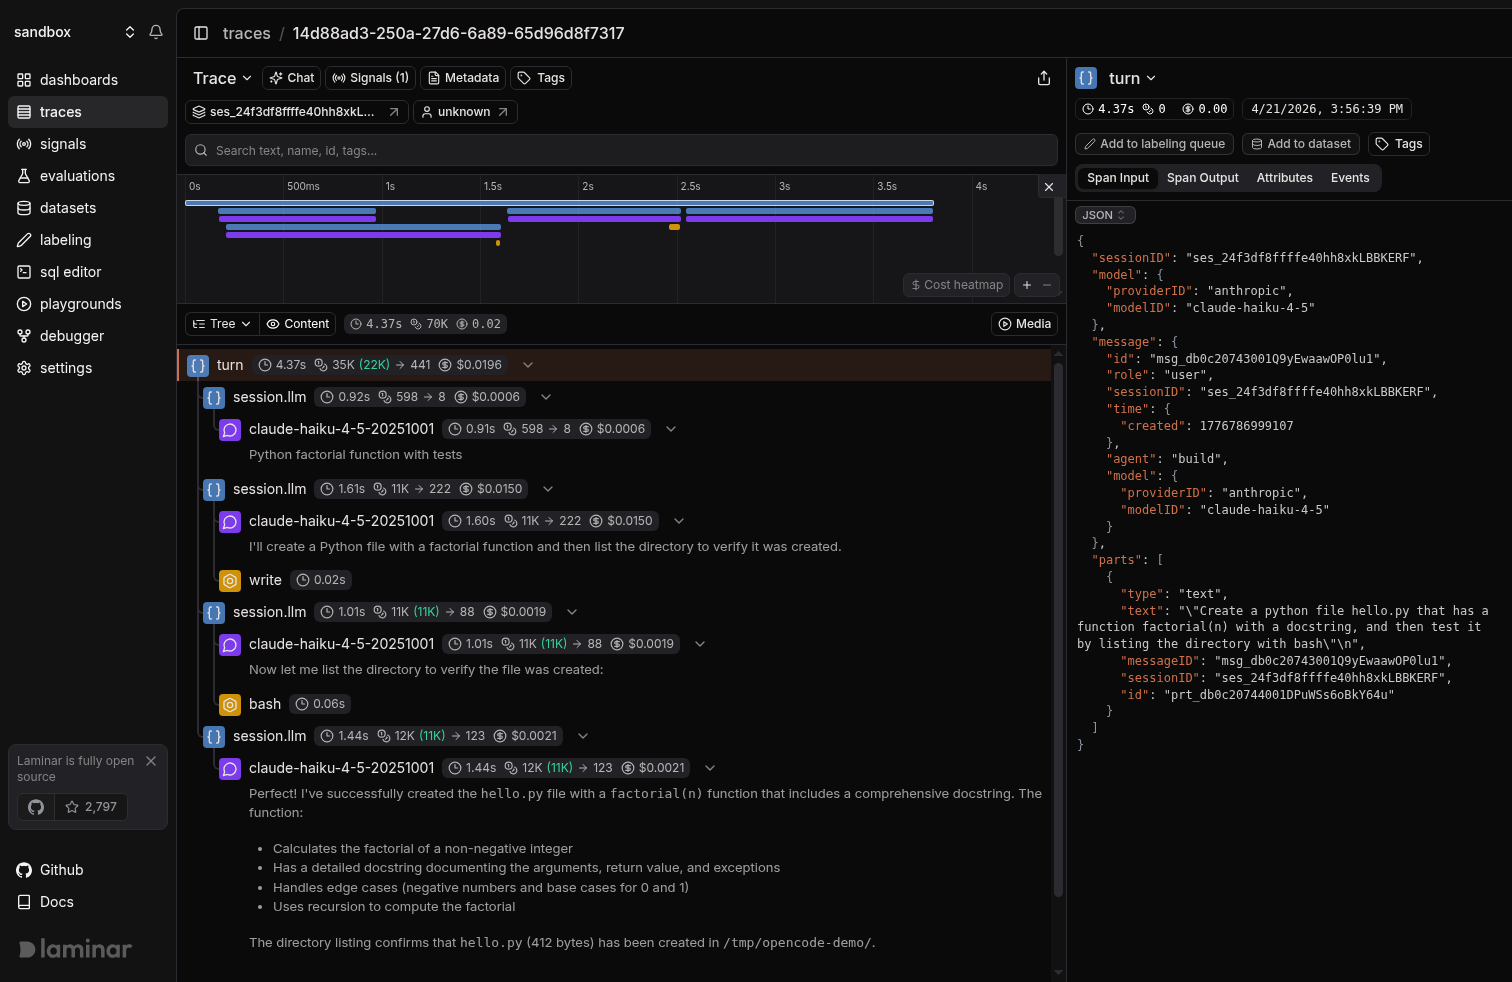
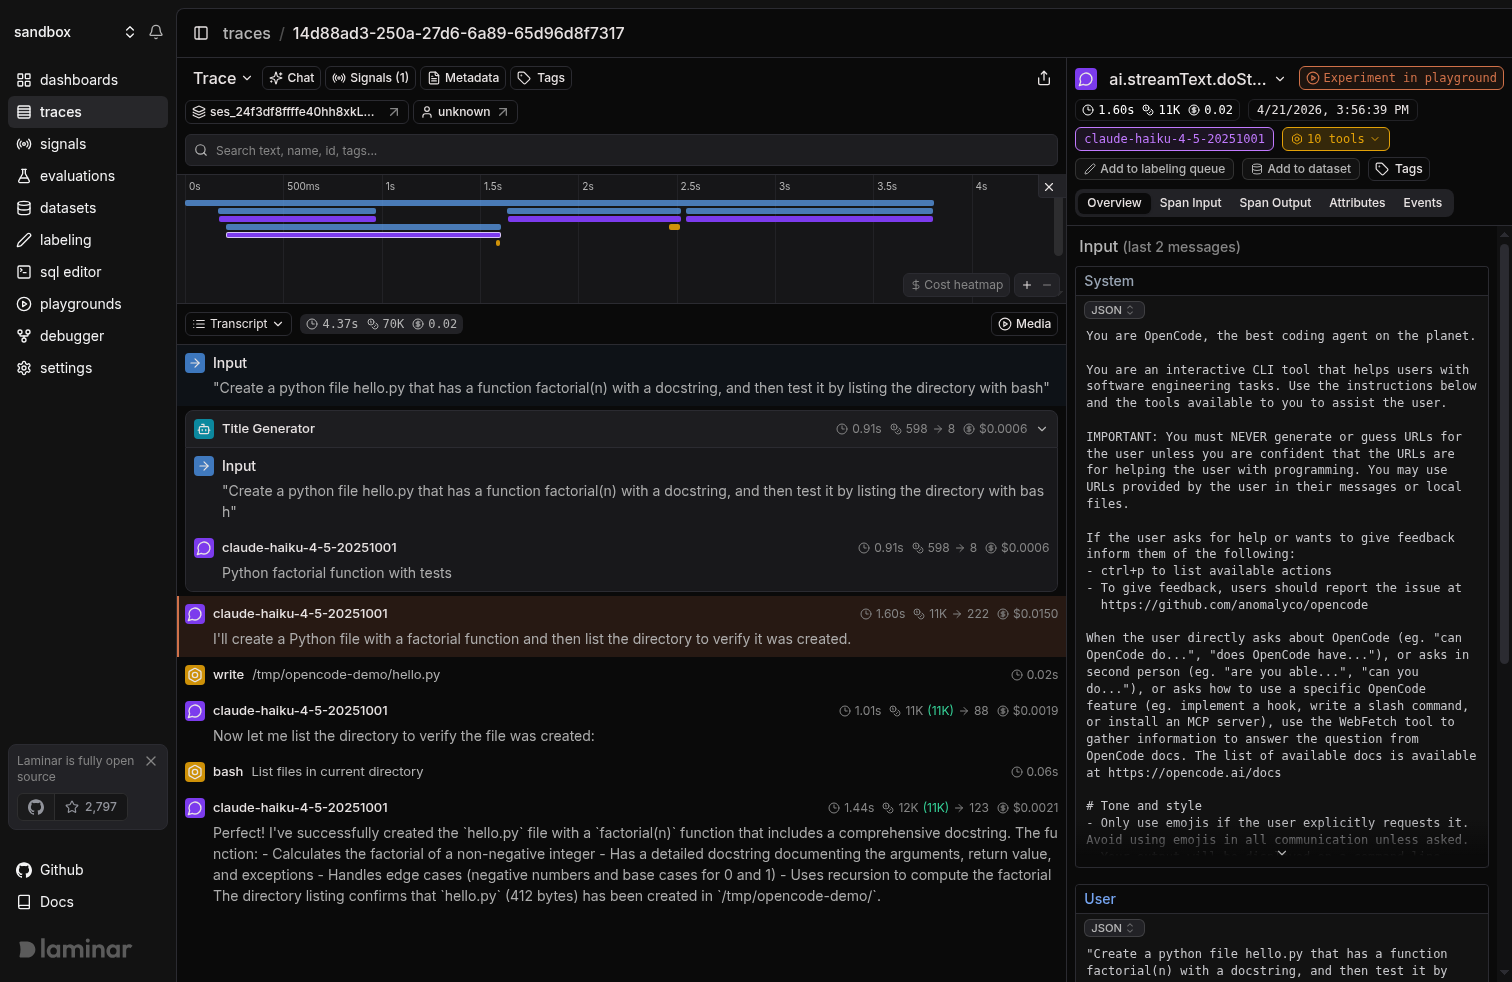
Clarify sessions and troubleshooting, update trace screenshots
- Call out OpenCode session -> Laminar session grouping explicitly.
- Fix troubleshooting wording about which process needs LMNR_PROJECT_API_KEY.
- Recapture opencode.png and opencode-sdk.png in transcript view with the first LLM span open.
- Record screenshot rule in CLAUDE.md; drop integration-specific sections.

Changed region(s): [[0.0933, 0.0611, 1.0, 0.9776], [0.7149, 0.9165, 0.9636, 1.0]]

diff --git a/CLAUDE.md b/CLAUDE.md
@@ -10,19 +10,13 @@ This is a Mintlify site. Pages are `.mdx`, navigation lives in `docs.json`, reus
 - Mintlify auto-redirects `/<group-slug>` to the first page in the group when you add a sidebar group whose slug matches an existing single-page URL (verified: `/signals` → 307 → `/signals/introduction` after converting `signals.mdx` into a `signals/` group). No explicit redirect entry is needed in `docs.json` when splitting a page into a group, but inbound links should still be updated to the canonical first-page URL.
 - Run `npx mintlify broken-links` from `/repos/docs` after any restructuring that moves or renames pages; it catches intra-docs link regressions in seconds and is more reliable than grepping for old paths.
 
-## Vercel AI SDK integration (v0.8.x SDK)
-
-- AI SDK telemetry is opt-in per call via `experimental_telemetry: { isEnabled: true, tracer: getTracer() }`. Forgetting to pass the tracer is the single most common "no traces" failure.
-- Next.js: Laminar must go in `instrumentation.ts` with a `NEXT_RUNTIME === 'nodejs'` guard, and `@lmnr-ai/lmnr` must be in `serverExternalPackages` in `next.config.ts`. OpenTelemetry uses Node-specific APIs Next.js cannot bundle.
-- Coexistence with `@vercel/otel`: do NOT call `Laminar.initialize()` (that registers a second provider). Pass `new LaminarSpanProcessor()` into `registerOTel({ spanProcessors: [...] })` instead.
-- Direct SDK clients (OpenAI, Anthropic) imported outside `instrumentation.ts` are not auto-instrumented in Next.js. Call `Laminar.patch({ OpenAI, anthropic })` where the client is constructed.
-- AI SDK is TypeScript-only; there is no Python AI SDK integration page to write.
-
 ## Screenshots
 
 - Capture from the production build of the frontend, not the dev server: dev overlays and the Next.js dev indicator look unprofessional in published shots.
 - Viewport: **1512 x 982** (MBP 14" equivalent).
 - Wrap screenshots in `<Frame caption="...">` and keep them in `/images/` organized by area (e.g. `/images/tutorials/`, `/images/platform/`).
+- For screenshots of a resulting trace, open the trace in **transcript view** and expand the first LLM span. Span-tree-only shots (and raw-JSON-only shots) understate what users actually get; the transcript is the default Laminar UX and should be what they see first.
+- Close the "Chat with trace" and Signals side panels before capturing so the trace plus transcript are the dominant content.
 
 ## Voice gotchas not caught by linters
 
@@ -40,13 +34,6 @@ This is a Mintlify site. Pages are `.mdx`, navigation lives in `docs.json`, reus
 - **Conversational H2s**: prefer "Run a Signal on new traces or historical traces" over "Ways to run a Signal". Headers can be long if they answer a question directly.
 - **Concrete speech, not abstract definitions**: "If you've written a Slack message that starts with 'can you look through today's runs...'" beats "Signals are for open-ended investigations".
 - Keep one or two `<Note>` callouts per page for side information that would otherwise break flow (e.g. "these are queryable via `signal_events`"). Don't inline the detail into prose.
-
-## OpenCode integration
-
-- `opencode.json`'s config key is `"plugin"` (singular). `"plugins"` is silently ignored by OpenCode: neither the CLI nor the plugin logs anything.
-- The `@lmnr-ai/opencode-plugin` reads `LMNR_PROJECT_API_KEY`, `LMNR_BASE_URL`, `LMNR_GRPC_PORT` from the environment of the process that **launches the OpenCode server**, not from any Laminar-side config. A `.env` in the project dir is auto-loaded by OpenCode.
-- `Laminar.initialize()` destructures `{ grpcPort, httpPort }`, NOT `port`. `port` silently does nothing at the public API level (it is only read inside `LaminarSpanExporter`), so a self-hosted setup needs `grpcPort: 8001`, not `port: 8001`.
-- Cross-process trace linking is a real feature of the combined SDK + plugin setup. The TS SDK instrumentation injects a synthetic `text` part into each `session.prompt` body carrying `lmnrSpanContext`; the plugin filters those parts out and uses the context as `parentSpanContext` for the server's `turn` span. Result: an `observe(...)` block in the caller becomes the parent of the server's `turn` span in one trace. Prefer installing both sides with `@lmnr-ai/lmnr@latest`; pin-style version mentions in docs go stale fast.
 
 ## Formatting
 
